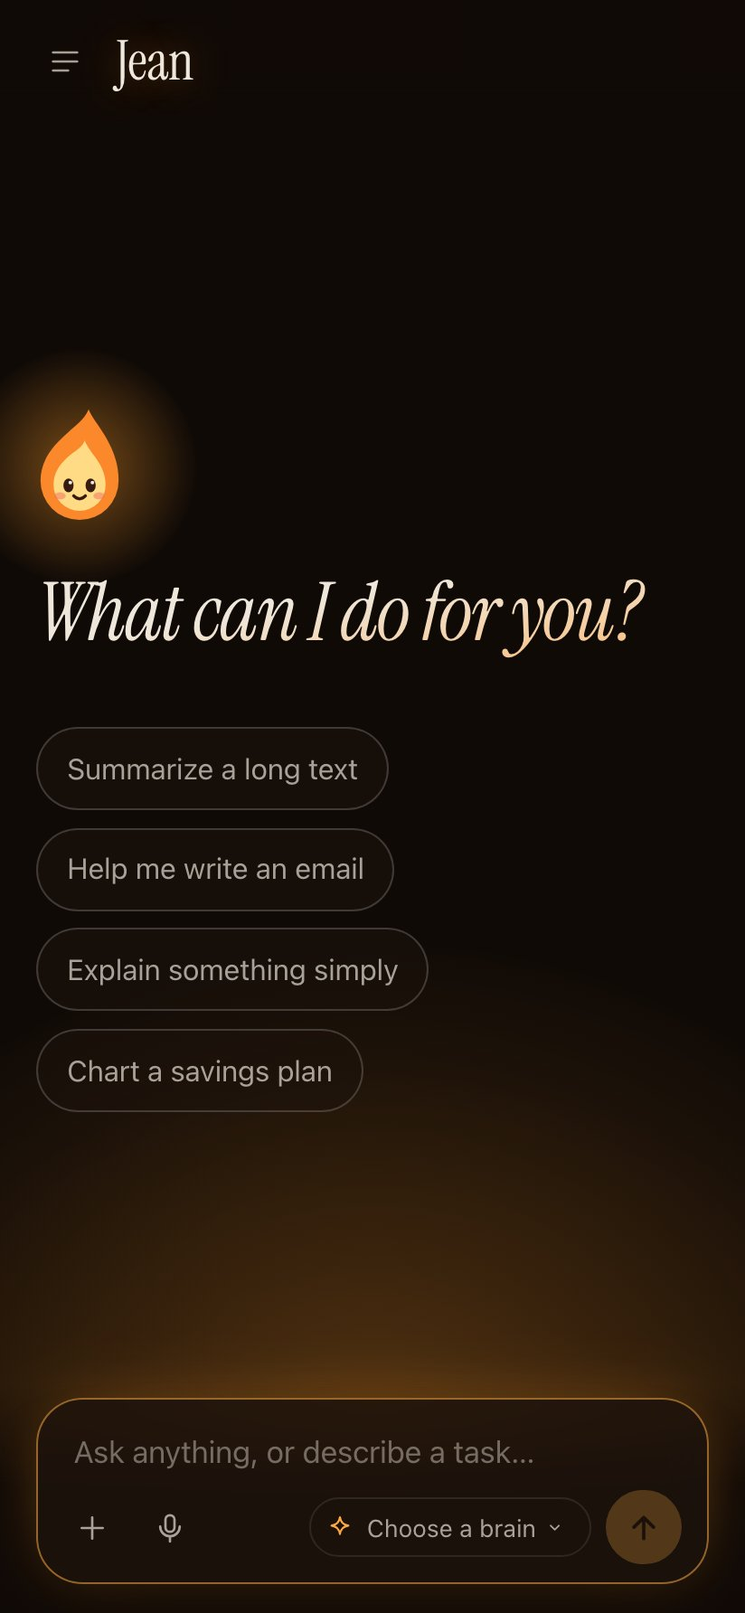
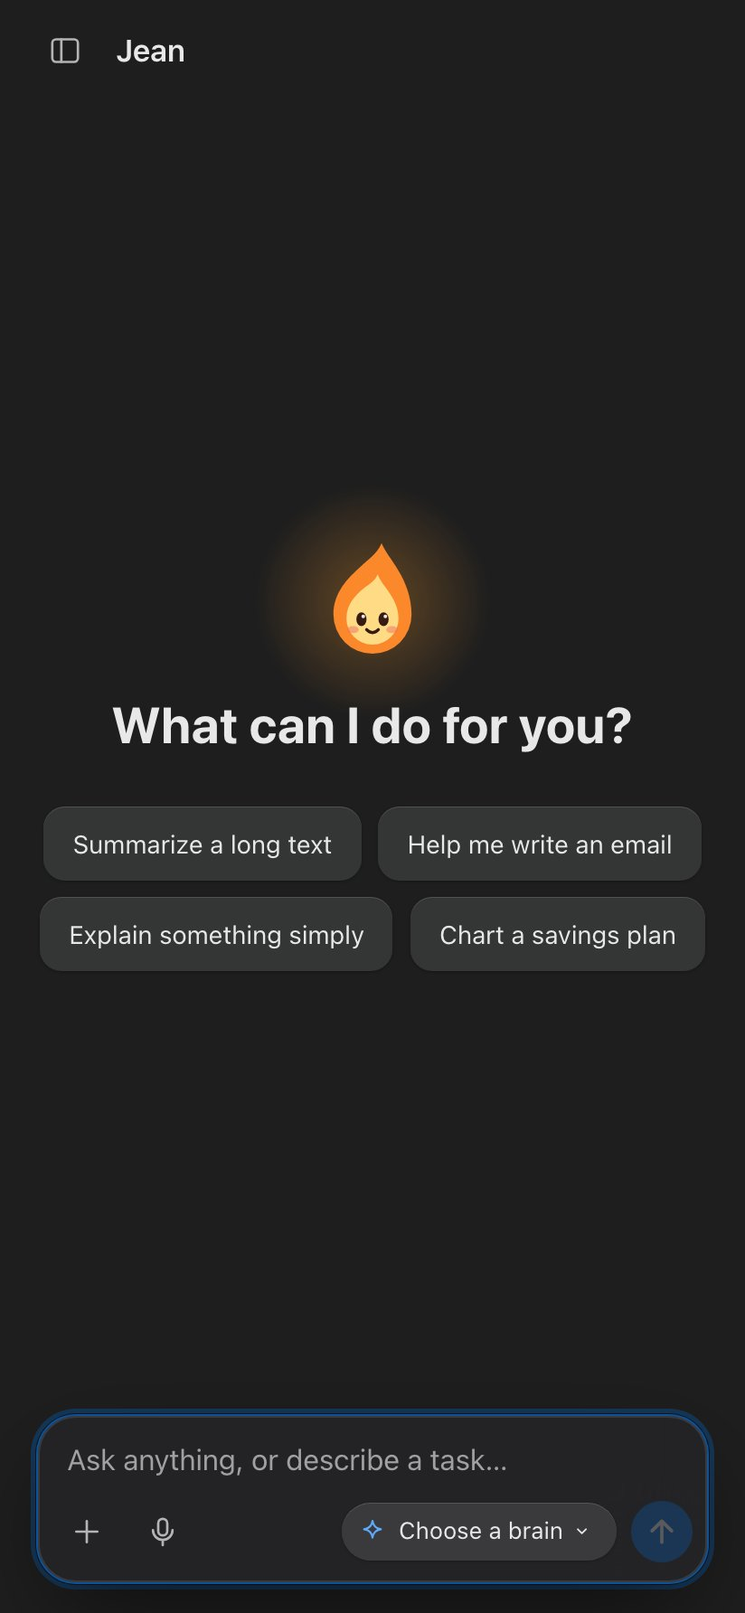
:lipstick: Jean starts in Human, first of fifteen themes; Pixel goes (D174)
- A device starts in Human until the user picks a look; the room's id is now kept too. Human's
  sheet comes with the first paint, outside the first-load budgets, which count only the sheets
  index.html links. The display font is no longer preloaded, since Human doesn't use it.
- Human's bar has no edge: the page's own colour, which the conversation fades under.
- The welcome's question keeps its look's size when the dock opens beside the conversation.
- Pixel is removed; the gallery shows Human first, then the calmest look to the most playful.
- The install screenshots are taken again; e2e checks of pane sizes hold for any look.

diff --git a/ui/dialogs.css b/ui/dialogs.css
@@ -311,8 +311,6 @@ input.switch:disabled { cursor: not-allowed; opacity: 0.6; }
 [data-theme='light'] [data-look-preview='depth'] { --p-room: oklch(0.965 0.005 260); --p-grid: oklch(0.45 0.04 260 / 0.3); --p-art: radial-gradient(60% 14% at 50% 56%, oklch(0.86 0.12 75 / 0.7), transparent 70%), repeating-conic-gradient(from 90deg at 50% 0%, var(--p-grid) 0 0.7deg, transparent 0.7deg 10deg) 0 100% / 100% 44% no-repeat, linear-gradient(transparent 58.5%, var(--p-grid) 58.5% 59%, transparent 59% 62%, var(--p-grid) 62% 62.6%, transparent 62.6% 68%, var(--p-grid) 68% 68.8%, transparent 68.8% 78%, var(--p-grid) 78% 79%, transparent 79% 94%, var(--p-grid) 94% 95.2%, transparent 95.2%), linear-gradient(oklch(0.965 0.005 260) 8%, oklch(1 0 0) 56%, oklch(0.965 0.005 260)); --p-text: oklch(0.22 0.02 265); --p-bubble: oklch(1 0 0 / 0.85); --p-edge: 1px solid oklch(0.22 0.02 265 / 0.12); --p-box: oklch(1 0 0 / 0.9); --p-flame: oklch(0.52 0.15 52); }
 [data-look-preview='classic'] { --p-room: oklch(0.33 0.06 250); --p-art: linear-gradient(90deg, oklch(0.3 0.13 265), oklch(0.46 0.13 250)) 50% 6.5% / 88% 7% no-repeat, linear-gradient(oklch(0.3 0.006 260) 0 0) 50% 16% / 88% 62% no-repeat; --p-text: oklch(0.97 0 0); --p-bubble: oklch(0.98 0.04 105); --p-edge: 1px solid oklch(0 0 0); --p-box: oklch(0.3 0.006 260); --p-line: oklch(0.5 0.005 260); --p-flame: oklch(0.8 0.11 245); --p-r: 0; --p-dot: 0; }
 [data-theme='light'] [data-look-preview='classic'] { --p-room: oklch(0.54 0.093 195); --p-art: linear-gradient(90deg, oklch(0.27 0.19 264), oklch(0.48 0.14 248)) 50% 6.5% / 88% 7% no-repeat, linear-gradient(oklch(0.81 0 0) 0 0) 50% 16% / 88% 62% no-repeat; --p-text: oklch(0 0 0); --p-box: oklch(0.81 0 0); --p-line: oklch(1 0 0); --p-flame: oklch(0.36 0.2 264); }
-[data-look-preview='pixel'] { --p-room: oklch(0.25 0.008 270); --p-art: linear-gradient(oklch(0.29 0.05 145) 0 0) 50% 26% / 80% 58% no-repeat, linear-gradient(oklch(0.17 0.008 270) 0 0) 50% 18.75% / 90% 68% no-repeat; --p-text: oklch(0.86 0.13 122); --p-bubble: oklch(0.38 0.07 140); --p-edge: 2px solid var(--p-text); --p-line: transparent; --p-flame: oklch(0.5 0.17 358); --p-r: 0; }
-[data-theme='light'] [data-look-preview='pixel'] { --p-room: oklch(0.85 0.01 95); --p-art: linear-gradient(oklch(0.82 0.11 122) 0 0) 50% 26% / 80% 58% no-repeat, linear-gradient(oklch(0.42 0.015 270) 0 0) 50% 18.75% / 90% 68% no-repeat; --p-text: oklch(0.29 0.06 145); --p-bubble: oklch(0.74 0.12 125); --p-flame: oklch(0.47 0.17 358); }
 [data-look-preview='blueprint'] { --p-room: oklch(0.36 0.11 256); --p-art: linear-gradient(oklch(1 0 0 / 0.16) 1px, transparent 1px) 0 0 / 100% 25%, linear-gradient(90deg, oklch(1 0 0 / 0.16) 1px, transparent 1px) 0 0 / 16% 100%, linear-gradient(oklch(1 0 0 / 0.07) 1px, transparent 1px) 0 0 / 100% 5%, linear-gradient(90deg, oklch(1 0 0 / 0.07) 1px, transparent 1px) 0 0 / 3.2% 100%; --p-text: oklch(0.98 0.01 240); --p-bubble: oklch(0.36 0.11 256); --p-edge: 1px dashed oklch(0.98 0.01 240 / 0.8); --p-line: oklch(0.98 0.01 240 / 0.7); --p-flame: oklch(0.92 0.14 98); --p-r: 0; --p-dot: 0; }
 [data-theme='light'] [data-look-preview='blueprint'] { --p-room: oklch(0.975 0.008 240); --p-art: linear-gradient(oklch(0.5 0.1 250 / 0.18) 1px, transparent 1px) 0 0 / 100% 25%, linear-gradient(90deg, oklch(0.5 0.1 250 / 0.18) 1px, transparent 1px) 0 0 / 16% 100%, linear-gradient(oklch(0.5 0.1 250 / 0.08) 1px, transparent 1px) 0 0 / 100% 5%, linear-gradient(90deg, oklch(0.5 0.1 250 / 0.08) 1px, transparent 1px) 0 0 / 3.2% 100%; --p-text: oklch(0.32 0.11 258); --p-bubble: oklch(0.975 0.008 240); --p-edge: 1px dashed oklch(0.32 0.11 258 / 0.8); --p-line: oklch(0.32 0.11 258 / 0.7); --p-flame: oklch(0.53 0.19 28); }
 [data-look-preview='mondrian'] { --p-room: oklch(0.22 0.004 95); --p-rule: oklch(0.97 0.004 95); --p-art: linear-gradient(var(--p-rule) 0 0) 0 8% / 100% 2px no-repeat, linear-gradient(var(--p-rule) 0 0) 6% 0 / 2px 100% no-repeat, linear-gradient(var(--p-rule) 0 0) 94% 0 / 2px 100% no-repeat, linear-gradient(var(--p-rule) 0 0) 0 55% / 6% 2px no-repeat, linear-gradient(oklch(0.55 0.21 28) 0 0) 0 25% / 6% 32% no-repeat, linear-gradient(oklch(0.88 0.16 95) 0 0) 0 100% / 6% 30% no-repeat, linear-gradient(oklch(0.47 0.15 258) 0 0) 100% 100% / 6% 45% no-repeat; --p-text: var(--p-rule); --p-bubble: oklch(0.88 0.16 95); --p-edge: 2px solid var(--p-rule); --p-line: var(--p-rule); --p-flame: oklch(0.68 0.2 28); --p-r: 0; --p-dot: 0; }

diff --git a/ui/looks.js b/ui/looks.js
@@ -1,40 +1,39 @@
-// Looks (D111): Jean's own room, or another style sheet over it (ui/looks/<id>.css). The user's
-// touches over a look are ui/touches.js, loaded once there are some.
+// Looks (D111): Jean's own room, or another style sheet over it (ui/looks/<id>.css), Human until the
+// user picks one (D174). The user's touches over a look are ui/touches.js, loaded once there are some.
 
 /** @typedef {import('../core/settings.js').Look} Look */
 
 /**
  * Each look, with what the page needs before its style sheet says it: the browser bar's colour
  * by night and by day, and its accent, where the colour pickers start. Mail and Human keep the
- * conversations in view, beside the one open (`list`). Jean's own three first, then (D120) the
- * refined, the playful and the familiar.
+ * conversations in view, beside the one open (`list`). In the gallery's order: Human, the look
+ * Jean starts in, then from the calmest to the most playful (D174).
  */
-/** @typedef {'room' | 'mail' | 'paper' | 'minimal' | 'swiss' | 'fjord' | 'velvet' | 'terminal' | 'neon' | 'notebook' | 'depth' | 'classic' | 'pixel' | 'blueprint' | 'mondrian' | 'human'} LookId */
+/** @typedef {'human' | 'mail' | 'minimal' | 'swiss' | 'paper' | 'room' | 'fjord' | 'velvet' | 'notebook' | 'blueprint' | 'classic' | 'mondrian' | 'terminal' | 'neon' | 'depth'} LookId */
 /** @type {Readonly<Record<LookId, { bar: [string, string], accent: string, list?: boolean }>>} */
 export const LOOKS = Object.freeze({
-  room: { bar: ['#120c08', '#fbf6ee'], accent: '#f29d38' },
+  human: { bar: ['#1e1e1e', '#ffffff'], accent: '#0a84ff', list: true },
   mail: { bar: ['#060708', '#f4f5f7'], accent: '#3d82f6', list: true },
-  paper: { bar: ['#211e1a', '#faf7f0'], accent: '#b23a2a' },
   minimal: { bar: ['#0a0a0a', '#fdfdfd'], accent: '#161616' },
   swiss: { bar: ['#0d0d0d', '#fdfdfd'], accent: '#d81618' },
+  paper: { bar: ['#211e1a', '#faf7f0'], accent: '#b23a2a' },
+  room: { bar: ['#120c08', '#fbf6ee'], accent: '#f29d38' },
   fjord: { bar: ['#2d333f', '#eef0f5'], accent: '#88cada' },
   velvet: { bar: ['#1e0a16', '#f9f5ec'], accent: '#e5bf6d' },
+  notebook: { bar: ['#1b3125', '#fcfcf9'], accent: '#cc272e' },
+  blueprint: { bar: ['#0c3c75', '#f2f8fc'], accent: '#fde56f' },
+  classic: { bar: ['#2c2e31', '#c1c1c1'], accent: '#0126a3' },
+  mondrian: { bar: ['#100f0d', '#fbfaf6'], accent: '#d01e1c' },
   terminal: { bar: ['#07120a', '#f8fbf6'], accent: '#9aff81' },
   neon: { bar: ['#13062a', '#ffeffa'], accent: '#ff62be' },
-  notebook: { bar: ['#1b3125', '#fcfcf9'], accent: '#cc272e' },
   depth: { bar: ['#060b18', '#f1f3f7'], accent: '#fca942' },
-  classic: { bar: ['#2c2e31', '#c1c1c1'], accent: '#0126a3' },
-  pixel: { bar: ['#202126', '#d0cec7'], accent: '#9bbc0f' },
-  blueprint: { bar: ['#0c3c75', '#f2f8fc'], accent: '#fde56f' },
-  mondrian: { bar: ['#100f0d', '#fbfaf6'], accent: '#d01e1c' },
-  human: { bar: ['#1e1e1e', '#ffffff'], accent: '#0a84ff', list: true },
 })
 
 /** The look's id, also kept on this device: index.html applies it before the first paint, like light or dark (D85). */
 export const LOOK_KEY = 'app.look'
 
-/** A known look's id, or the room's. @param {unknown} id @returns {LookId} */
-export const lookId = (id) => (typeof id === 'string' && Object.hasOwn(LOOKS, id) ? /** @type {LookId} */ (id) : 'room')
+/** A known look's id, or Human's, the look Jean starts in (D174). @param {unknown} id @returns {LookId} */
+export const lookId = (id) => (typeof id === 'string' && Object.hasOwn(LOOKS, id) ? /** @type {LookId} */ (id) : 'human')
 
 /** Whether the user changed anything over the look. @param {Look} [look] */
 export const touched = (look = {}) => [look.accent, look.background, look.size, look.font, look.css].some((value) => value !== undefined)

diff --git a/index.html b/index.html
@@ -2,20 +2,19 @@
 <html lang="en" dir="ltr" data-presence="idle">
 <head>
 <meta charset="utf-8">
-<meta http-equiv="Content-Security-Policy" content="default-src 'self'; script-src 'self' 'wasm-unsafe-eval' 'sha256-AVkAeWFclsxbwt9flrhS75Lc2bBapPCIrquC+SzWpws=' 'sha256-jWVt1ZxAxvIOeFOOOkbvMn/fURMkhVajfwsvyrKz7gs='; style-src 'self' 'sha256-4TQiNejSsY6HYV6I9ZeOSbTB4w4ILCsQdptk1OWhWoI='; img-src 'self' blob: data:; media-src 'self' blob:; font-src 'self'; connect-src 'self' https: wss: http://localhost:* http://127.0.0.1:*; worker-src 'self' blob:; manifest-src 'self'; frame-src 'self'; object-src 'none'; base-uri 'none'; form-action 'none'; require-trusted-types-for 'script'; trusted-types lit-html app-urls">
+<meta http-equiv="Content-Security-Policy" content="default-src 'self'; script-src 'self' 'wasm-unsafe-eval' 'sha256-AVkAeWFclsxbwt9flrhS75Lc2bBapPCIrquC+SzWpws=' 'sha256-idas6hj8gcIoYFO7ll9w1MGv9kD4YBmVqD5aBDRHWP4='; style-src 'self' 'sha256-4TQiNejSsY6HYV6I9ZeOSbTB4w4ILCsQdptk1OWhWoI='; img-src 'self' blob: data:; media-src 'self' blob:; font-src 'self'; connect-src 'self' https: wss: http://localhost:* http://127.0.0.1:*; worker-src 'self' blob:; manifest-src 'self'; frame-src 'self'; object-src 'none'; base-uri 'none'; form-action 'none'; require-trusted-types-for 'script'; trusted-types lit-html app-urls">
 <meta name="viewport" content="width=device-width, initial-scale=1, viewport-fit=cover, interactive-widget=resizes-content">
 <meta name="color-scheme" content="dark light">
-<meta name="theme-color" content="#120c08">
-<script>{const root = document.documentElement, look = localStorage.getItem('app.look')
+<meta name="theme-color" content="#1e1e1e">
+<script>{const root = document.documentElement, look = localStorage.getItem('app.look') ?? 'human'
 root.dataset.theme = localStorage.getItem('app.theme') ?? (matchMedia('(prefers-color-scheme: light)').matches ? 'light' : 'dark')
-if (/^[a-z]+$/.test(look ?? '')) {root.dataset.look = look; document.head.append(Object.assign(document.createElement('link'), {rel: 'stylesheet', href: `ui/looks/${look}.css`, blocking: 'render'}))}}</script>
+if (look !== 'room' && /^[a-z]+$/.test(look)) {root.dataset.look = look; document.head.append(Object.assign(document.createElement('link'), {rel: 'stylesheet', href: `ui/looks/${look}.css`, blocking: 'render'}))}}</script>
 <meta name="referrer" content="no-referrer">
 <meta name="description" content="An AI agent that runs in a browser tab. Nothing to install, no account, your files never leave your machine.">
 <title></title>
 <link rel="manifest" href="manifest.webmanifest">
 <link rel="icon" href="icons/icon.svg" type="image/svg+xml">
 <link rel="apple-touch-icon" href="icons/apple-touch-icon.png">
-<link rel="preload" href="fonts/display-italic.woff2" as="font" type="font/woff2" crossorigin>
 <style>@view-transition { navigation: auto; types: update; }</style>
 <link rel="stylesheet" href="ui/style.css">
 <script type="importmap">{"imports":{"@preact/signals-core":"./vendor/signals-core.mjs","lit-html":"./vendor/lit-html/lit-html.js","lit-html/":"./vendor/lit-html/","marked":"./vendor/marked.esm.js"}}</script>

diff --git a/e2e/looks.spec.js b/e2e/looks.spec.js
@@ -1,4 +1,4 @@
-// Looks (D111, D120): each one in Settings' gallery, with its thumbnail, dresses the page when
+// Looks (D111, D120): Human until one is picked (D174); each one in Settings' gallery, with its thumbnail, dresses the page when
 // picked. Mail keeps the conversations in view, in one sidebar with the name at its top and
 // the user at its foot (D115, D150, D165), and is back before the first paint; the user's own CSS shows as it
 // is typed; right to left, the sidebar changes sides. Depth turns the page with the camera (D125).
@@ -41,22 +41,26 @@ test('right to left, Mail’s sidebar sits on the right, the name at its top', a
   expect(top?.y).toBeLessThan(list?.y ?? 0)
 })
 
-test('the drawer opens beside the conversation or is put away, as the user left it, and Mail starts with it open', async ({ page }) => {
+test('the drawer opens beside the conversation or is put away, as the user left it, and Human and Mail start with it open', async ({ page }) => {
   const look = (/** @type {string} */ id) => page.evaluate(async (id) => (await import('/ui/state.js')).setLook({ id: /** @type {any} */ (id) }), id)
   await page.goto('./')
   await expect(page.locator('.hero-question')).toBeVisible()
-  // The first screen is the box alone: the drawer is put away, its button at the header's start (D165).
+  // The first screen is Human's (D174): the drawer open beside the conversation, its button at the header's start (D165).
   const toggle = page.locator('.sidebar-toggle')
   const tasks = page.locator('app-inbox')
+  await expect(page.locator('html')).toHaveAttribute('data-look', 'human')
+  await expect(tasks).toBeVisible()
+  await expect(toggle).toHaveAttribute('aria-label', 'Close sidebar')
+  // The room's is the box alone.
+  await look('room')
+  await expect(page.locator('html')).not.toHaveAttribute('data-look')
   await expect(tasks).toHaveCount(0)
   await expect(toggle).toHaveAttribute('aria-expanded', 'false')
   await look('mail')
   await expect(tasks).toBeVisible()
-  await expect(toggle).toHaveAttribute('aria-label', 'Close sidebar')
   await toggle.click()
   await expect(tasks).toHaveCount(0)
   await look('room')
-  await expect(page.locator('html')).not.toHaveAttribute('data-look')
   await expect(tasks).toHaveCount(0)
 
   // Opened: a new task, the tasks under their heading; a capability found that leads somewhere has its row.
@@ -94,7 +98,7 @@ test('every theme is in the gallery with its thumbnail, and dresses the page whe
     else await expect(page.locator('html')).toHaveAttribute('data-look', id)
     await expect(card.locator('input')).toBeChecked()
   }
-  await expect.poll(() => savedLook(page)).toMatchObject({ id: 'room' })
+  await expect.poll(() => savedLook(page)).toMatchObject({ id: 'human' })
 })
 
 test('Depth turns the page as the camera circles the floor, the other way to an older conversation', async ({ page }) => {

diff --git a/ui/looks/human.css b/ui/looks/human.css
@@ -2,7 +2,7 @@
    edge to edge with the conversations (the open one in the system's blue), what the user asked
    in blue bubbles with a tail, a toolbar that the page scrolls under with the title in it, sheets whose three lights
    close them, and panels (the file preview, the browser, the drawer) that float. System typefaces, sizes, focus
-   ring and scroll bars. On a phone, or with the sidebar put away: a frosted bar, a large title, the drawer. Over ui/style.css, which comes after it, so every rule here starts
+   ring and scroll bars. On a phone, or with the sidebar put away: a bar without an edge, a large title, the drawer. Over ui/style.css, which comes after it, so every rule here starts
    with :root[data-look='human'], and its keyframes are named human-*. */
 
 :root[data-look='human'] {
@@ -84,8 +84,9 @@
 :root[data-look='human'] :focus-visible { outline: 3px solid oklch(from var(--fill) l c h / 0.6); outline-offset: 1px; }
 :root[data-look='human'] :is(input, progress) { accent-color: var(--fill); }
 
-/* A frosted bar on a phone, or with the sidebar put away; with it open, it is the sidebar's top. */
-:root[data-look='human'] .bar { padding-block: 0.5rem; border-block-end: 1px solid var(--line); background: var(--glass); backdrop-filter: blur(20px) saturate(1.8); }
+/* The bar on a phone, or with the sidebar put away: no edge, the page's own colour that the
+   conversation fades under, as beside the sidebar; with it open, it is the sidebar's top. */
+:root[data-look='human'] .bar { padding-block: 0.5rem; }
 
 /* The first screen: centred, in the system's display face. */
 :root[data-look='human'] .welcome { align-items: center; gap: 1.75rem; text-align: center; }
@@ -238,8 +239,8 @@
    conversations, the user at its foot. */
 :root[data-look='human'][data-sidebar] { --list: 17.5rem; }
 :root[data-look='human'][data-sidebar] app-shell { padding-inline-start: var(--list); background: var(--room) content-box; }
-:root[data-look='human'][data-sidebar] :is(.bar, app-inbox) { background: var(--side); backdrop-filter: none; }
-:root[data-look='human'][data-sidebar] .bar { padding-block: 0; border-block-end: 0; }
+:root[data-look='human'][data-sidebar] :is(.bar, app-inbox) { background: var(--side); }
+:root[data-look='human'][data-sidebar] .bar { padding-block: 0; }
 :root[data-look='human'][data-sidebar] .wordmark { font-size: 0.9375rem; }
 :root[data-look='human'][data-sidebar] app-inbox { padding: 0 0.625rem 0.625rem; }
 :root[data-look='human'][data-sidebar] main { padding-block-start: 0; }

diff --git a/manifesto.html b/manifesto.html
@@ -5,18 +5,17 @@
 <html lang="en" dir="ltr">
 <head>
 <meta charset="utf-8">
-<meta http-equiv="Content-Security-Policy" content="default-src 'self'; script-src 'sha256-jWVt1ZxAxvIOeFOOOkbvMn/fURMkhVajfwsvyrKz7gs='; style-src 'self'; font-src 'self'; img-src 'self'; connect-src 'none'; object-src 'none'; base-uri 'none'; form-action 'none'; require-trusted-types-for 'script'; trusted-types 'none'">
+<meta http-equiv="Content-Security-Policy" content="default-src 'self'; script-src 'sha256-idas6hj8gcIoYFO7ll9w1MGv9kD4YBmVqD5aBDRHWP4='; style-src 'self'; font-src 'self'; img-src 'self'; connect-src 'none'; object-src 'none'; base-uri 'none'; form-action 'none'; require-trusted-types-for 'script'; trusted-types 'none'">
 <meta name="viewport" content="width=device-width, initial-scale=1, viewport-fit=cover">
 <meta name="color-scheme" content="dark light">
-<meta name="theme-color" content="#120c08">
-<script>{const root = document.documentElement, look = localStorage.getItem('app.look')
+<meta name="theme-color" content="#1e1e1e">
+<script>{const root = document.documentElement, look = localStorage.getItem('app.look') ?? 'human'
 root.dataset.theme = localStorage.getItem('app.theme') ?? (matchMedia('(prefers-color-scheme: light)').matches ? 'light' : 'dark')
-if (/^[a-z]+$/.test(look ?? '')) {root.dataset.look = look; document.head.append(Object.assign(document.createElement('link'), {rel: 'stylesheet', href: `ui/looks/${look}.css`, blocking: 'render'}))}}</script>
+if (look !== 'room' && /^[a-z]+$/.test(look)) {root.dataset.look = look; document.head.append(Object.assign(document.createElement('link'), {rel: 'stylesheet', href: `ui/looks/${look}.css`, blocking: 'render'}))}}</script>
 <meta name="referrer" content="no-referrer">
 <meta name="description" content="An AI agent that runs in a browser tab. Nothing to install, no account, your files never leave your machine.">
 <title>Jean · Manifesto</title>
 <link rel="icon" href="icons/icon.svg" type="image/svg+xml">
-<link rel="preload" href="fonts/display-italic.woff2" as="font" type="font/woff2" crossorigin>
 <link rel="stylesheet" href="ui/style.css">
 <link rel="stylesheet" href="manifesto.css">
 </head>

diff --git a/ui/app.js b/ui/app.js
@@ -51,7 +51,7 @@ async function start() {
   const chosen = localStorage.getItem(THEME_KEY)
   app.chosenTheme.value = chosen === 'light' || chosen === 'dark' ? chosen : null
   const browserBar = document.querySelector('meta[name="theme-color"]')
-  app.look.value = lookId(root.dataset.look)
+  app.look.value = lookId(root.dataset.look ?? 'room')
   effect(() => {
     root.style.transition = 'none'
     root.dataset.theme = theme.value
@@ -70,13 +70,13 @@ async function start() {
   app.sidebar.value = side === 'open' ? true : side === 'closed' ? false : null
   effect(() => { root.toggleAttribute('data-sidebar', sidebarOpen.value) })
   // A look (D111) switches once its style sheet is in, so nothing shows half dressed. Its id
-  // stays on the device for index.html; the user's touches go over it, in a sheet of their own
-  // (CSSOM, which the CSP allows), with their code loaded only once there are some.
+  // stays on the device for index.html, the room's too, since a device without one starts in
+  // Human (D174); the user's touches go over it, in a sheet of their own (CSSOM, which the CSP
+  // allows), with their code loaded only once there are some.
   let dressing = Promise.resolve()
   effect(() => {
     const id = lookId(effective.value.settings.look?.id)
-    if (id === 'room') localStorage.removeItem(LOOK_KEY)
-    else localStorage.setItem(LOOK_KEY, id)
+    localStorage.setItem(LOOK_KEY, id)
     dressing = lookSheet(id).then(() => { if (id === lookId(app.settings.value.look?.id)) app.look.value = id })
   })
   const touches = new CSSStyleSheet()

diff --git a/e2e/preview.spec.js b/e2e/preview.spec.js
@@ -206,7 +206,9 @@ test('on a phone the preview covers the conversation; Escape gives it back', asy
   await page.keyboard.press('Enter')
   const pane = page.locator('app-preview .preview')
   await expect(pane.locator('.preview-grid')).toBeVisible()
-  expect((await pane.boundingBox())?.width).toBe(390)
+  // The whole width, or all but the margins of a look whose panes float.
+  const box = await pane.boundingBox()
+  expect(2 * (box?.x ?? 0) + (box?.width ?? 0)).toBeCloseTo(390, 0)
   await expect(page.locator('app-shell')).toHaveJSProperty('inert', true)
   await page.keyboard.press('Escape')
   await expect(pane).toHaveCount(0)
@@ -222,8 +224,7 @@ test('right to left, the preview opens on the left of the conversation', async (
   await ask(page, 'Here is my table')
   await page.locator('.msg-files .file-chip').click()
   const box = await page.locator('app-preview .preview').boundingBox()
-  expect(box?.x).toBe(0)
-  expect((await page.locator('main').boundingBox())?.x).toBeGreaterThan(box?.width ?? 0)
+  expect((box?.x ?? 0) + (box?.width ?? 0)).toBeLessThanOrEqual((await page.locator('main').boundingBox())?.x ?? 0)
 })
 
 /** A one-page PDF in Helvetica, one of the standard fonts. @param {string} text */

diff --git a/e2e/you.spec.js b/e2e/you.spec.js
@@ -6,6 +6,7 @@
 // Undo; they change it in About you. A long title stays inside the list.
 import { test, expect } from '@playwright/test'
 import { start, connectFakeBrain, ask, openProfile, openSettings, openTasks } from './helpers.js'
+import { LOOKS } from '../ui/looks.js'
 
 /** What settings.json holds for the name. @param {import('@playwright/test').Page} page */
 const savedName = (page) => page.evaluate(async () => JSON.parse(await (await import('/ui/state.js')).app.fs.read('settings.json') ?? '{}').name)
@@ -18,7 +19,7 @@ test('the user’s menu changes the theme, the language and the mode, staying op
   await menu.locator('[data-page="looks"]').click()
   await expect(menu.locator('[aria-current="true"]')).toBeFocused()
   // Each theme a small thumbnail and its name (D154), drawn once the dialogs' style sheet is in.
-  await expect(menu.locator('.look-tile')).toHaveCount(16)
+  await expect(menu.locator('.look-tile')).toHaveCount(Object.keys(LOOKS).length)
   await expect(menu.locator('.look-tile .look-preview').first()).toHaveCSS('aspect-ratio', '16 / 10')
   await menu.locator('button', { hasText: /^Mail$/ }).click()
   await expect(page.locator('html')).toHaveAttribute('data-look', 'mail')

diff --git a/test/looks.test.js b/test/looks.test.js
@@ -84,17 +84,18 @@ test('every look has a name and a thumbnail in Settings', async () => {
   }
 })
 
-test('a look is applied before the first paint, with the key ui/looks.js uses', () => {
+test('a look is applied before the first paint, with the key ui/looks.js uses, Human until one is picked', () => {
   const script = /<script>([\s\S]*?)<\/script>/.exec(html)?.[1] ?? ''
-  assert.ok(script.includes(`localStorage.getItem('${LOOK_KEY}')`))
+  assert.ok(script.includes(`localStorage.getItem('${LOOK_KEY}') ?? '${lookId(undefined)}'`))
   assert.ok(script.includes('ui/looks/${look}.css'))
 })
 
-test('an unknown look is the room', () => {
+test('an unknown look is Human (D174)', () => {
   assert.equal(lookId('mail'), 'mail')
-  assert.equal(lookId('../style'), 'room')
-  assert.equal(lookId('toString'), 'room')
-  assert.equal(lookId(undefined), 'room')
+  assert.equal(lookId('room'), 'room')
+  assert.equal(lookId('../style'), 'human')
+  assert.equal(lookId('toString'), 'human')
+  assert.equal(lookId(undefined), 'human')
 })
 
 test('no touches, no CSS', () => {

diff --git a/e2e/browse.spec.js b/e2e/browse.spec.js
@@ -236,9 +236,10 @@ test('the browser and a file share the side of the window, neither covering the 
   // and what the user set is kept; a double click puts each back.
   const dock = page.locator('.dock')
   const width = (await dock.boundingBox())?.width ?? 0
+  const paneWidth = (await pane.boundingBox())?.width ?? 0
   await drag(page, page.locator('.dock-edge'), -100, 0)
   expect((await dock.boundingBox())?.width).toBeCloseTo(width + 100, 0)
-  expect((await pane.boundingBox())?.width).toBeCloseTo(width + 100 - 1, 0)
+  expect((await pane.boundingBox())?.width).toBeCloseTo(paneWidth + 100, 0)
   await expect.poll(() => page.evaluate(async () => (await import('/ui/state.js')).app.settings.value.dock?.width)).toBeCloseTo((width + 100) / 1280, 2)
   await divider.dblclick()
   await page.locator('.dock-edge').dblclick()

diff --git a/ui/state.js b/ui/state.js
@@ -55,7 +55,7 @@ export const app = {
   deviceTheme: signal(/** @type {Theme} */ ('dark')),
   chosenTheme: signal(/** @type {Theme | null} */ (null)),
   /** The look on screen (D111), once its style sheet is in; settings hold the one chosen. */
-  look: signal(/** @type {import('./looks.js').LookId} */ ('room')),
+  look: signal(/** @type {import('./looks.js').LookId} */ ('human')),
   /** The drawer kept open beside the conversation, or put away, as the user left it on this device; null until then (D165). */
   sidebar: signal(/** @type {boolean | null} */ (null)),
   /** Whether the window is wide enough for the drawer to stay open beside the conversation. */
